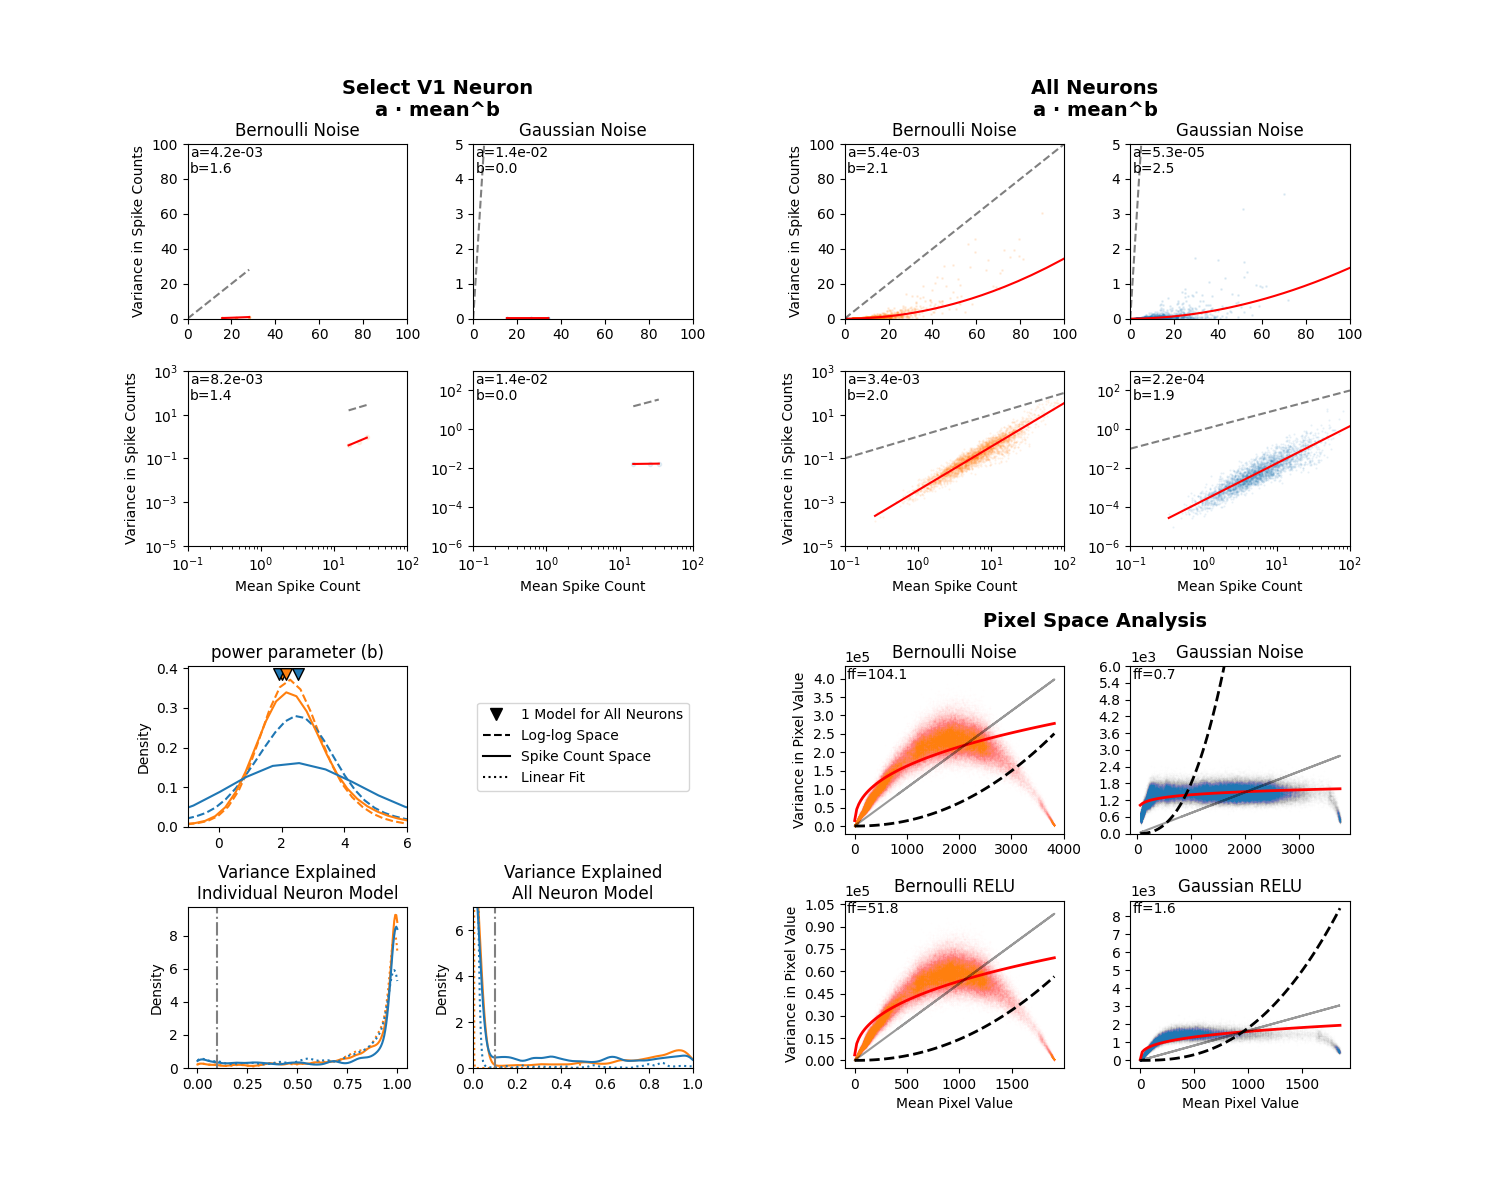
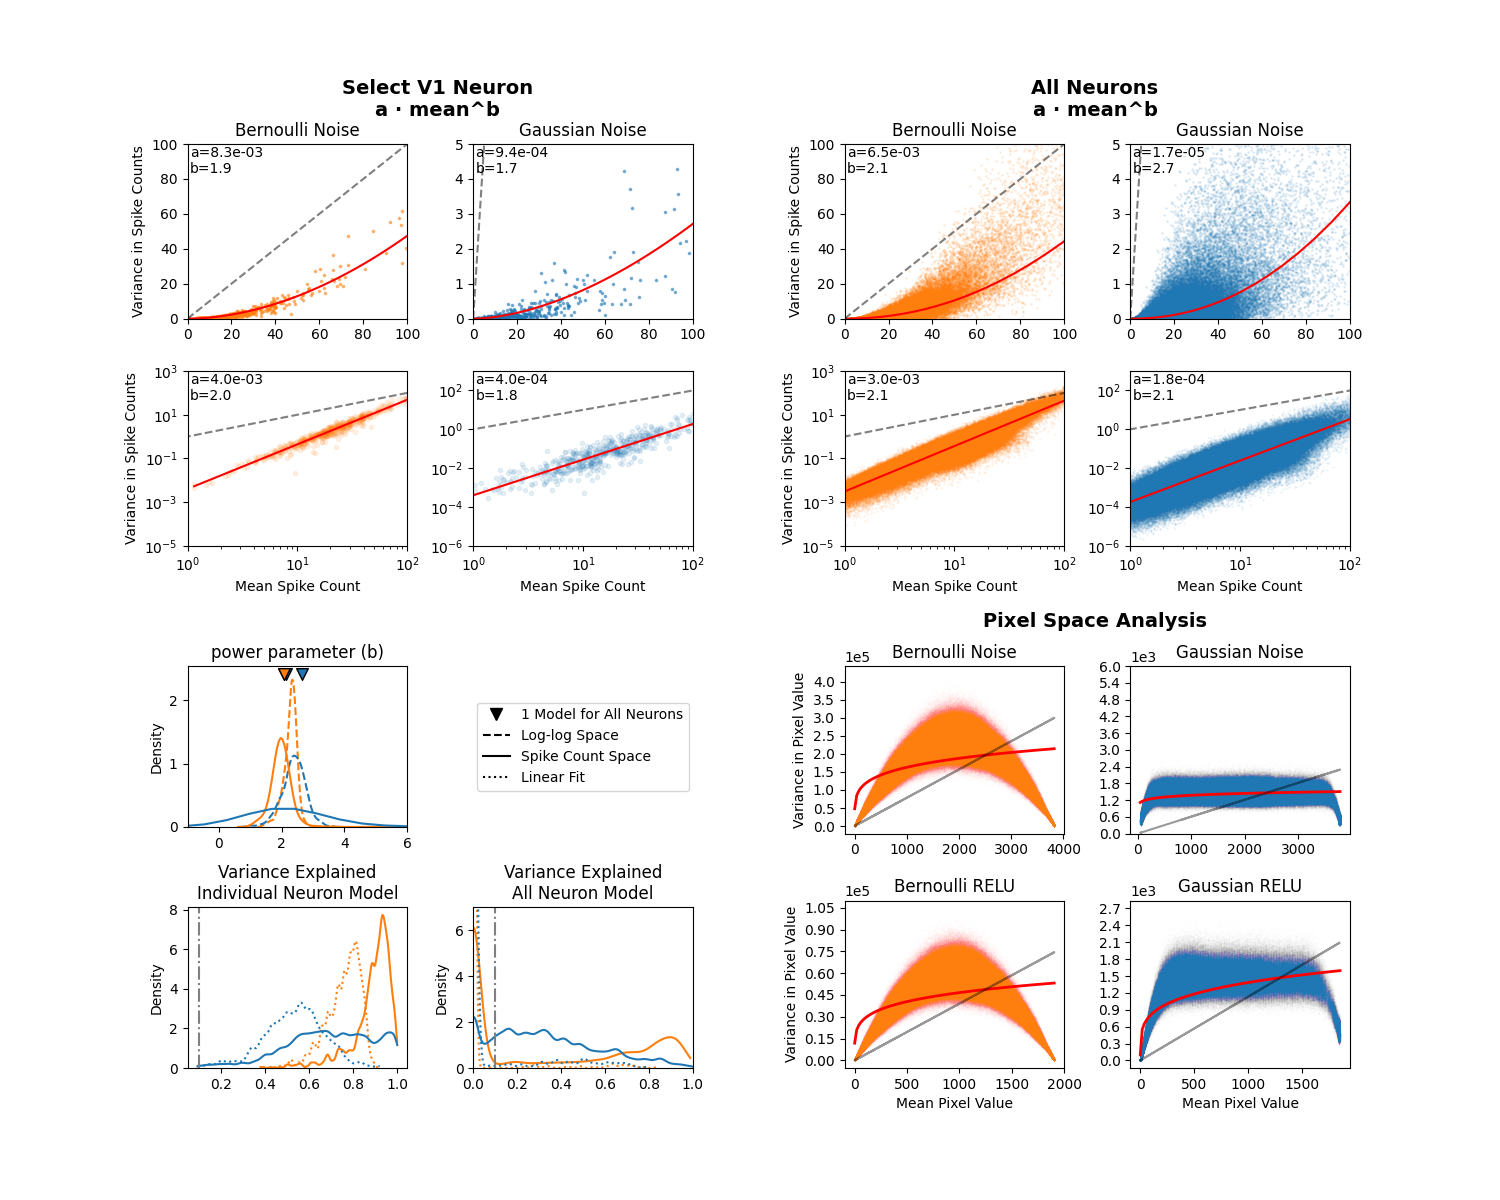
figure1 all regions

diff --git a/plot_figure1.py b/plot_figure1.py
@@ -743,10 +743,10 @@ def plot_figure1(figure_name, stochbin_meanv1, stochbin_varv1, sigma10_meanv1, s
         model = LinearRegression(fit_intercept=False).fit(bnoise_mean.reshape(-1,1), bnoise_var)
         y_pred_br = model.predict(bnoise_mean.reshape(-1,1))
         ax.plot(bnoise_mean, y_pred_br, color = "black", alpha=0.4)
-    if x_pooled_b is not None:
-        ax.plot(x_pooled_b, y_pooled_b, 'k--', linewidth=2, label=f'Pooled: a={a_glob_st_lin:.2e}, b={b_glob_st_lin:.2f}')
-    ax.text(0.01, 0.99, f"ff={model.coef_[0]:.1f}", transform=ax.transAxes, verticalalignment='top',
-             horizontalalignment='left', fontsize=10)
+    # if x_pooled_b is not None:
+        #ax.plot(x_pooled_b, y_pooled_b, 'k--', linewidth=2, label=f'Pooled: a={a_glob_st_lin:.2e}, b={b_glob_st_lin:.2f}')
+    # ax.text(0.01, 0.99, f"ff={model.coef_[0]:.1f}", transform=ax.transAxes, verticalalignment='top',
+    #          horizontalalignment='left', fontsize=10)
     ax.set_ylabel("Variance in Pixel Value")
     ax.set_title("Bernoulli Noise")
     ax.yaxis.set_major_locator(MaxNLocator(integer=True))
@@ -760,10 +760,10 @@ def plot_figure1(figure_name, stochbin_meanv1, stochbin_varv1, sigma10_meanv1, s
         model = LinearRegression(fit_intercept=False).fit(fb_mean_relu.reshape(-1,1), fb_var_relu)
         y_pred_br = model.predict(fb_mean_relu.reshape(-1,1))
         ax.plot(fb_mean_relu, y_pred_br, color = "black", alpha=0.4)
-    if x_pooled_br is not None:
-        ax.plot(x_pooled_br, y_pooled_br, 'k--', linewidth=2, label=f'Pooled: a={a_glob_st_lin:.2e}, b={b_glob_st_lin:.2f}')
-    ax.text(0.01, 0.99, f"ff={model.coef_[0]:.1f}", transform=ax.transAxes, verticalalignment='top',
-             horizontalalignment='left', fontsize=10)
+    # if x_pooled_br is not None:
+        #ax.plot(x_pooled_br, y_pooled_br, 'k--', linewidth=2, label=f'Pooled: a={a_glob_st_lin:.2e}, b={b_glob_st_lin:.2f}')
+    # ax.text(0.01, 0.99, f"ff={model.coef_[0]:.1f}", transform=ax.transAxes, verticalalignment='top',
+    #          horizontalalignment='left', fontsize=10)
     ax.set_xlabel("Mean Pixel Value")
     ax.set_ylabel("Variance in Pixel Value")
     ax.yaxis.set_major_locator(MaxNLocator(integer=True))
@@ -778,10 +778,10 @@ def plot_figure1(figure_name, stochbin_meanv1, stochbin_varv1, sigma10_meanv1, s
         model = LinearRegression(fit_intercept=False).fit(gnoise_mean.reshape(-1,1), gnoise_var)
         y_pred_br = model.predict(gnoise_mean.reshape(-1,1))
         ax.plot(gnoise_mean, y_pred_br, color = "black", alpha=0.4)
-    if x_pooled_g is not None:
-        ax.plot(x_pooled_g, y_pooled_g, 'k--', linewidth=2, label=f'Pooled: a={a_glob_sg_lin:.2e}, b={b_glob_sg_lin:.2f}')
-    ax.text(0.01, 0.99, f"ff={model.coef_[0]:.1f}", transform=ax.transAxes, verticalalignment='top',
-             horizontalalignment='left', fontsize=10)
+    # if x_pooled_g is not None:
+        #ax.plot(x_pooled_g, y_pooled_g, 'k--', linewidth=2, label=f'Pooled: a={a_glob_sg_lin:.2e}, b={b_glob_sg_lin:.2f}')
+    # ax.text(0.01, 0.99, f"ff={model.coef_[0]:.1f}", transform=ax.transAxes, verticalalignment='top',
+    #          horizontalalignment='left', fontsize=10)
     ax.set_title("Gaussian Noise")
     ax.yaxis.set_major_locator(MaxNLocator(integer=True))
     ax.set_ylim(0, 6000)
@@ -796,10 +796,10 @@ def plot_figure1(figure_name, stochbin_meanv1, stochbin_varv1, sigma10_meanv1, s
         model = LinearRegression(fit_intercept=False).fit(fg_mean_relu.reshape(-1,1), fg_var_relu)
         y_pred_br = model.predict(fg_mean_relu.reshape(-1,1))
         ax.plot(fg_mean_relu, y_pred_br, color = "black", alpha=0.4)
-    if x_pooled_gr is not None:
-        ax.plot(x_pooled_gr, y_pooled_gr, 'k--', linewidth=2, label=f'Pooled: a={a_glob_sg_lin:.2e}, b={b_glob_sg_lin:.2f}')
-    ax.text(0.01, 0.99, f"ff={model.coef_[0]:.1f}", transform=ax.transAxes, verticalalignment='top',
-             horizontalalignment='left', fontsize=10)
+    # if x_pooled_gr is not None:
+        #ax.plot(x_pooled_gr, y_pooled_gr, 'k--', linewidth=2, label=f'Pooled: a={a_glob_sg_lin:.2e}, b={b_glob_sg_lin:.2f}')
+    # ax.text(0.01, 0.99, f"ff={model.coef_[0]:.1f}", transform=ax.transAxes, verticalalignment='top',
+    #          horizontalalignment='left', fontsize=10)
     ax.set_xlabel("Mean Pixel Value")
     ax.yaxis.set_major_locator(MaxNLocator(integer=True))
     ax.ticklabel_format(axis='y', style='scientific', scilimits=(0, 0))

diff --git a/figure1_generation.py b/figure1_generation.py
@@ -12,7 +12,7 @@ from plot_figure1 import plot_figure1
 # Path where predictions are stored
 #path = "predictions/test_predictions(1-8-26)"
 path = "predictions/final predictions"
-test_region = 1
+test_region = 2
 
 # Initialize empty lists to collect arrays
 bern_arrays = []
